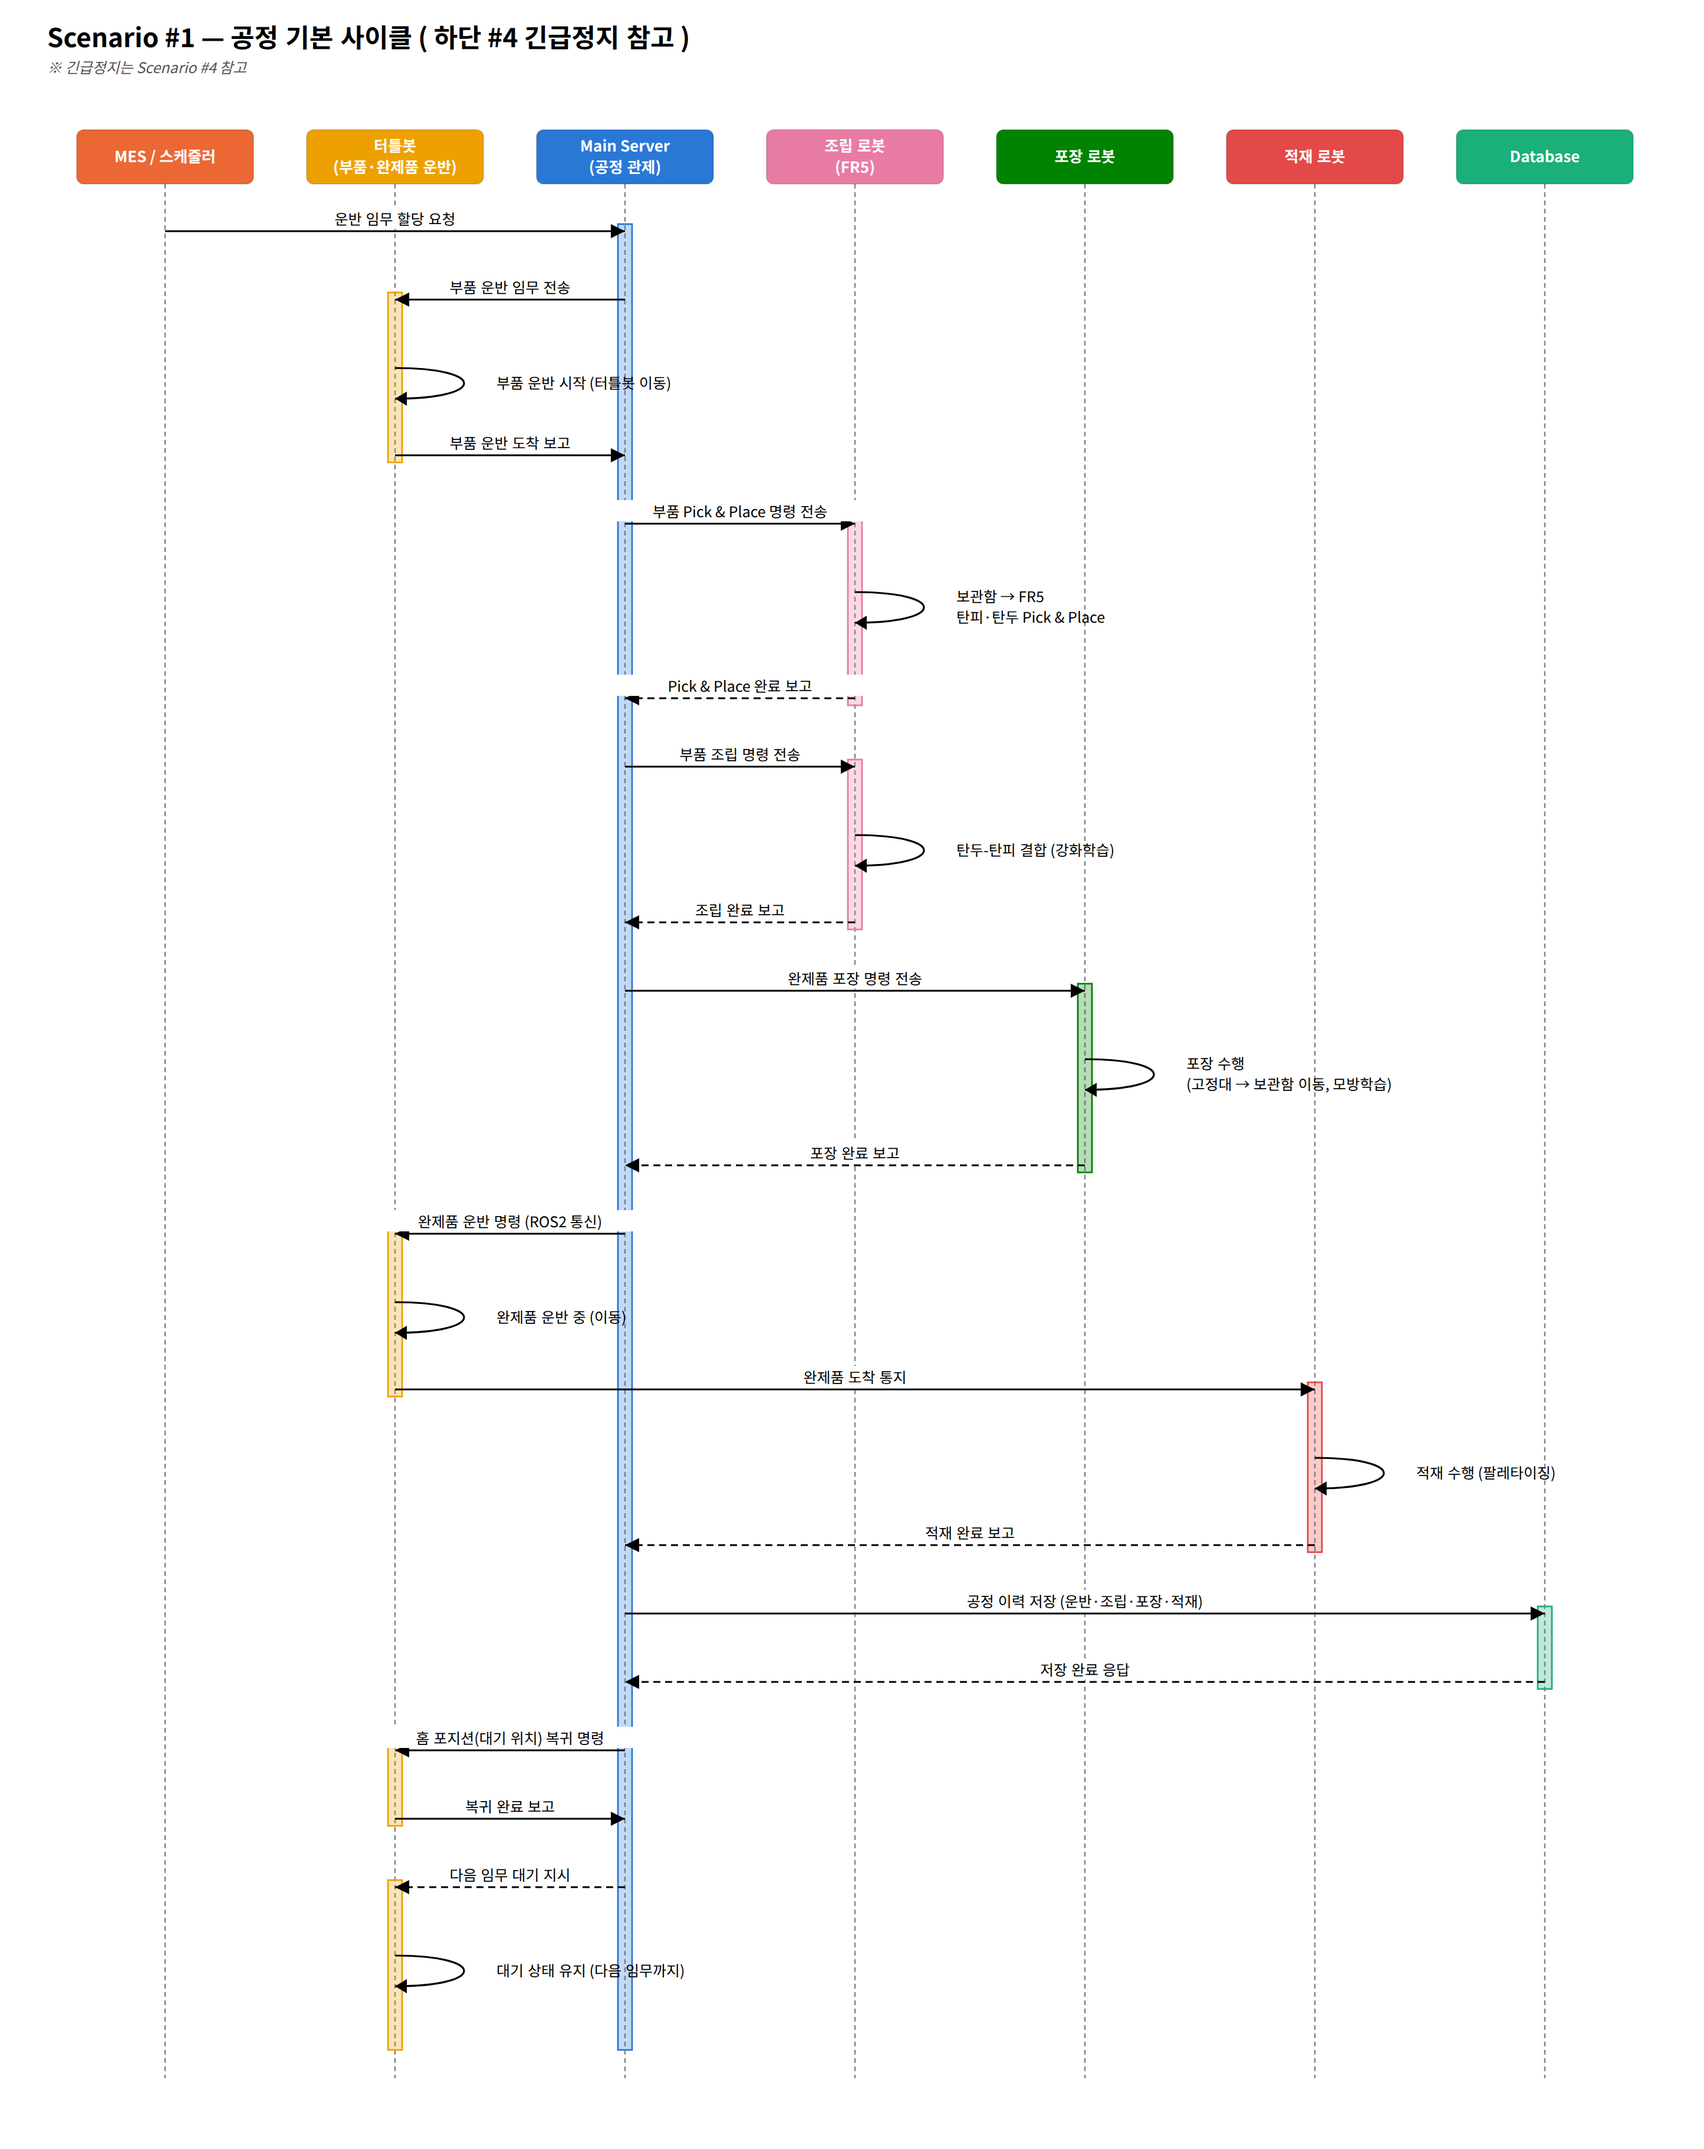
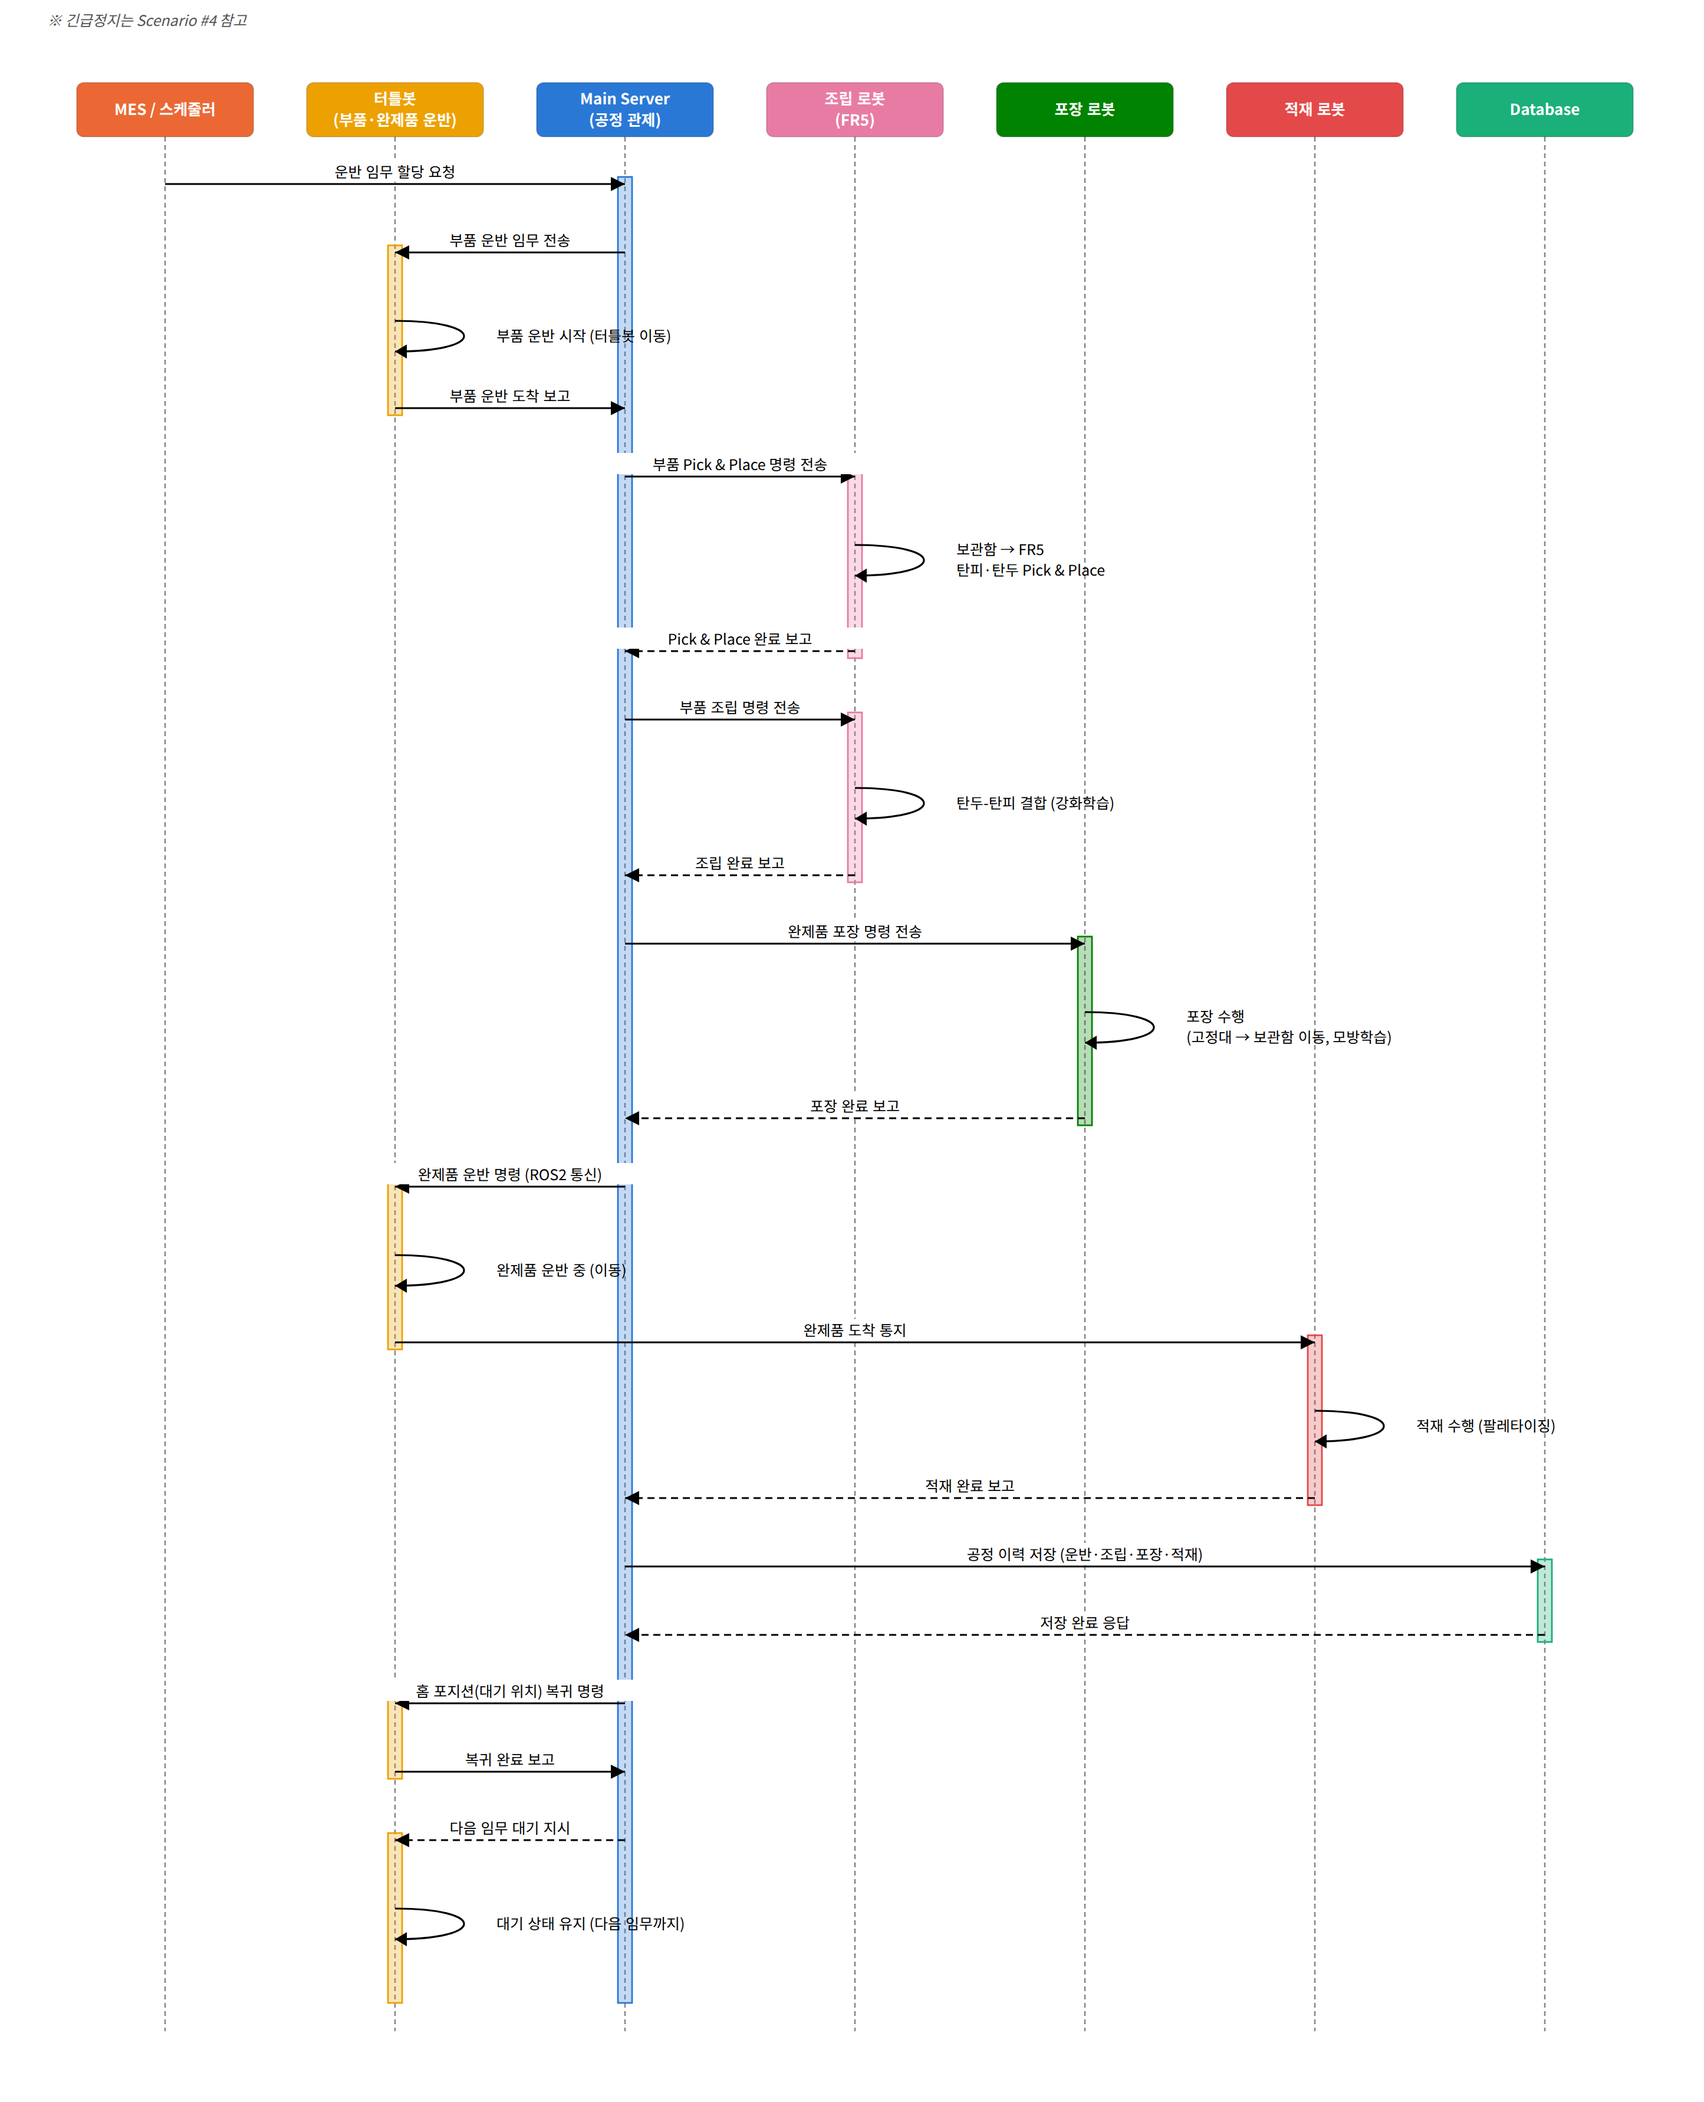
docs: 시퀀스 다이어그램 그림 안의 Scenario #1~#4 제목 제거 (README 소제목과 중복)

diff --git a/assets/sequence/scene1.html b/assets/sequence/scene1.html
@@ -11,9 +11,8 @@
 </head>
 <body>
 <div class="frame">
-<svg viewBox="0 0 1445.0 1822" xmlns="http://www.w3.org/2000/svg">
+<svg viewBox="0 40 1445.0 1782" xmlns="http://www.w3.org/2000/svg">
 <rect x="0" y="0" width="1445.0" height="1822" fill="white"/>
-<text x="40" y="40" font-family="Malgun Gothic, Apple SD Gothic Neo, Noto Sans KR, sans-serif" font-size="22" font-weight="bold" fill="black">Scenario #1 &#8212; 공정 기본 사이클 ( 하단 #4 긴급정지 참고 )</text>
 <text x="40" y="62" font-family="Malgun Gothic, Apple SD Gothic Neo, Noto Sans KR, sans-serif" font-size="12.5" fill="#555" font-style="italic">※ 긴급정지는 Scenario #4 참고</text>
 <g transform="translate(0,20)">
 <line x1="1310" y1="136" x2="1310" y2="1742" stroke="#888" stroke-width="1.3" stroke-dasharray="4,3"/>

diff --git a/assets/sequence/scene3.html b/assets/sequence/scene3.html
@@ -11,9 +11,8 @@
 </head>
 <body>
 <div class="frame">
-<svg viewBox="0 0 1065.0 1167" xmlns="http://www.w3.org/2000/svg">
+<svg viewBox="0 40 1065.0 1127" xmlns="http://www.w3.org/2000/svg">
 <rect x="0" y="0" width="1065.0" height="1167" fill="white"/>
-<text x="40" y="40" font-family="Malgun Gothic, Apple SD Gothic Neo, Noto Sans KR, sans-serif" font-size="22" font-weight="bold" fill="black">Scenario #3 &#8212; 시뮬레이션-현실 재고 동기화</text>
 <g transform="translate(0,20)">
 <line x1="920" y1="136" x2="920" y2="1087" stroke="#888" stroke-width="1.3" stroke-dasharray="4,3"/>
 <line x1="670" y1="136" x2="670" y2="1087" stroke="#888" stroke-width="1.3" stroke-dasharray="4,3"/>

diff --git a/assets/sequence/scene2.html b/assets/sequence/scene2.html
@@ -11,9 +11,8 @@
 </head>
 <body>
 <div class="frame">
-<svg viewBox="0 0 1250.0 1620" xmlns="http://www.w3.org/2000/svg">
+<svg viewBox="0 40 1250.0 1580" xmlns="http://www.w3.org/2000/svg">
 <rect x="0" y="0" width="1250.0" height="1620" fill="white"/>
-<text x="40" y="40" font-family="Malgun Gothic, Apple SD Gothic Neo, Noto Sans KR, sans-serif" font-size="22" font-weight="bold" fill="black">Scenario #2 &#8212; 위험 상황 예측 (결로예방)</text>
 <g transform="translate(0,20)">
 <line x1="1115" y1="136" x2="1115" y2="1540" stroke="#888" stroke-width="1.3" stroke-dasharray="4,3"/>
 <line x1="920" y1="136" x2="920" y2="1540" stroke="#888" stroke-width="1.3" stroke-dasharray="4,3"/>

diff --git a/assets/sequence/scene4.html b/assets/sequence/scene4.html
@@ -11,9 +11,8 @@
 </head>
 <body>
 <div class="frame">
-<svg viewBox="0 0 1147.5 1442" xmlns="http://www.w3.org/2000/svg">
+<svg viewBox="0 40 1147.5 1402" xmlns="http://www.w3.org/2000/svg">
 <rect x="0" y="0" width="1147.5" height="1442" fill="white"/>
-<text x="40" y="40" font-family="Malgun Gothic, Apple SD Gothic Neo, Noto Sans KR, sans-serif" font-size="22" font-weight="bold" fill="black">Scenario #4 &#8212; 긴급정지</text>
 <g transform="translate(0,20)">
 <line x1="1015" y1="136" x2="1015" y2="1362" stroke="#888" stroke-width="1.3" stroke-dasharray="4,3"/>
 <line x1="840" y1="136" x2="840" y2="1362" stroke="#888" stroke-width="1.3" stroke-dasharray="4,3"/>
